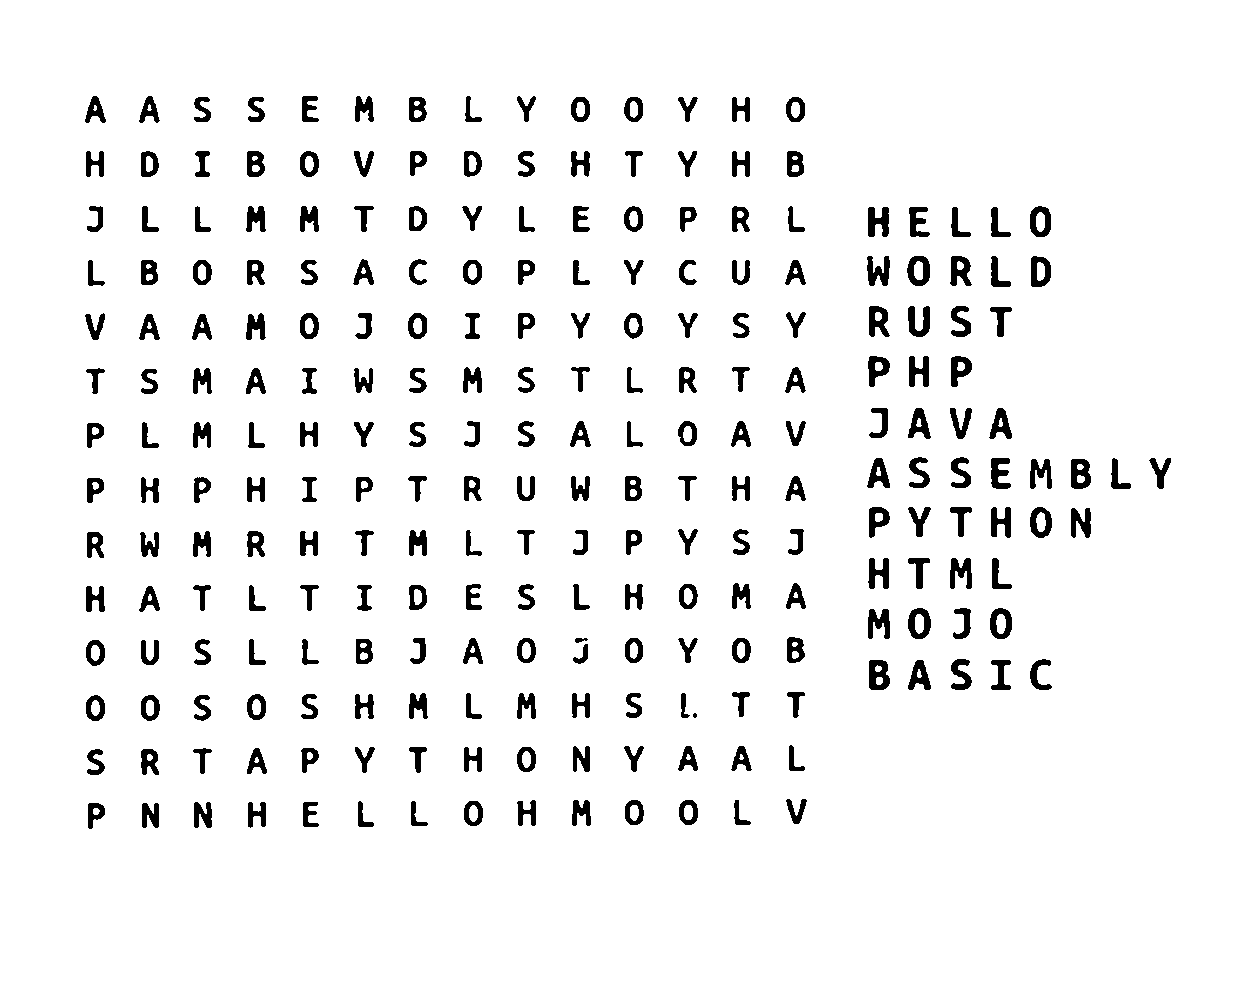
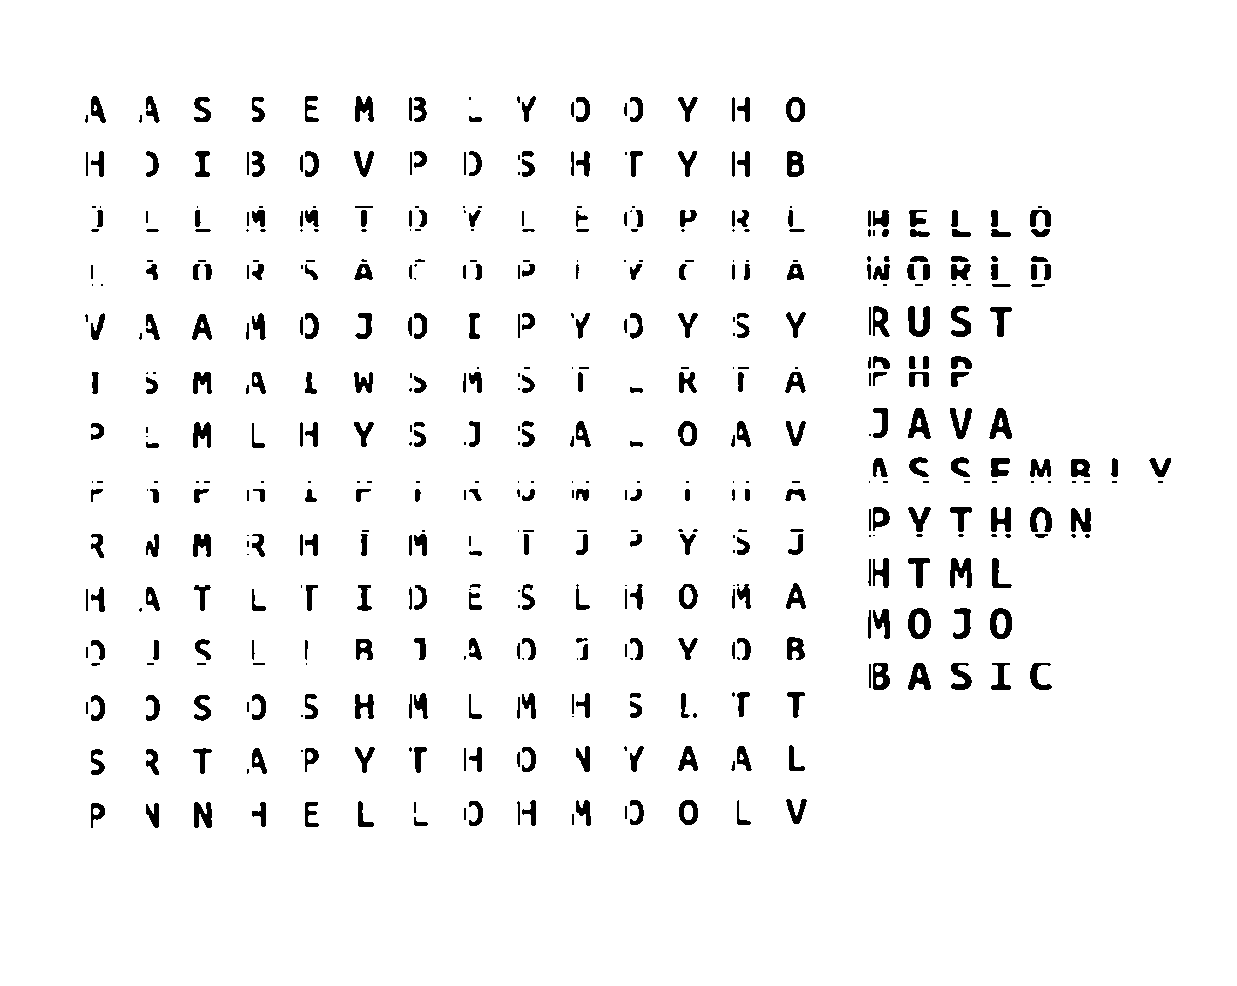
1

diff --git a/src/preprocessing.c b/src/preprocessing.c
@@ -134,7 +134,6 @@ Image* remove_grid_lines(Image *src)
         return NULL;
     }
 
-    // copie de base
     memcpy(dst->data, src->data, N);
 
     int *row_black = calloc((size_t)h, sizeof(int));
@@ -147,7 +146,6 @@ Image* remove_grid_lines(Image *src)
         return NULL;
     }
 
-    // compte de pixels noirs par ligne et par colonne
     for (int y = 0; y < h; ++y) {
         for (int x = 0; x < w; ++x) {
             if (src->data[y * w + x] == 0) {
@@ -157,23 +155,29 @@ Image* remove_grid_lines(Image *src)
         }
     }
 
-    // seuils : proportion de noir pour considérer que c'est une ligne/colonne de grille
-    int row_thresh = (int)(0.6f * w);  // >60% de noir sur la ligne
-    int col_thresh = (int)(0.6f * h);  // >60% de noir sur la colonne
+    int max_row = 0, max_col = 0;
+    for (int y = 0; y < h; ++y)
+        if (row_black[y] > max_row) max_row = row_black[y];
+    for (int x = 0; x < w; ++x)
+        if (col_black[x] > max_col) max_col = col_black[x];
 
-    // enlève les lignes horizontales
+    int row_thresh = (int)(0.8f * (float)max_row);
+    int col_thresh = (int)(0.8f * (float)max_col);
+
+    if (max_row < w / 10) row_thresh = max_row + 1;
+    if (max_col < h / 10) col_thresh = max_col + 1;
+
     for (int y = 0; y < h; ++y) {
         if (row_black[y] >= row_thresh) {
             for (int x = 0; x < w; ++x)
-                dst->data[y * w + x] = 255;  // blanc
+                dst->data[y * w + x] = 255;
         }
     }
 
-    // enlève les lignes verticales
     for (int x = 0; x < w; ++x) {
         if (col_black[x] >= col_thresh) {
             for (int y = 0; y < h; ++y)
-                dst->data[y * w + x] = 255;  // blanc
+                dst->data[y * w + x] = 255;
         }
     }
 
